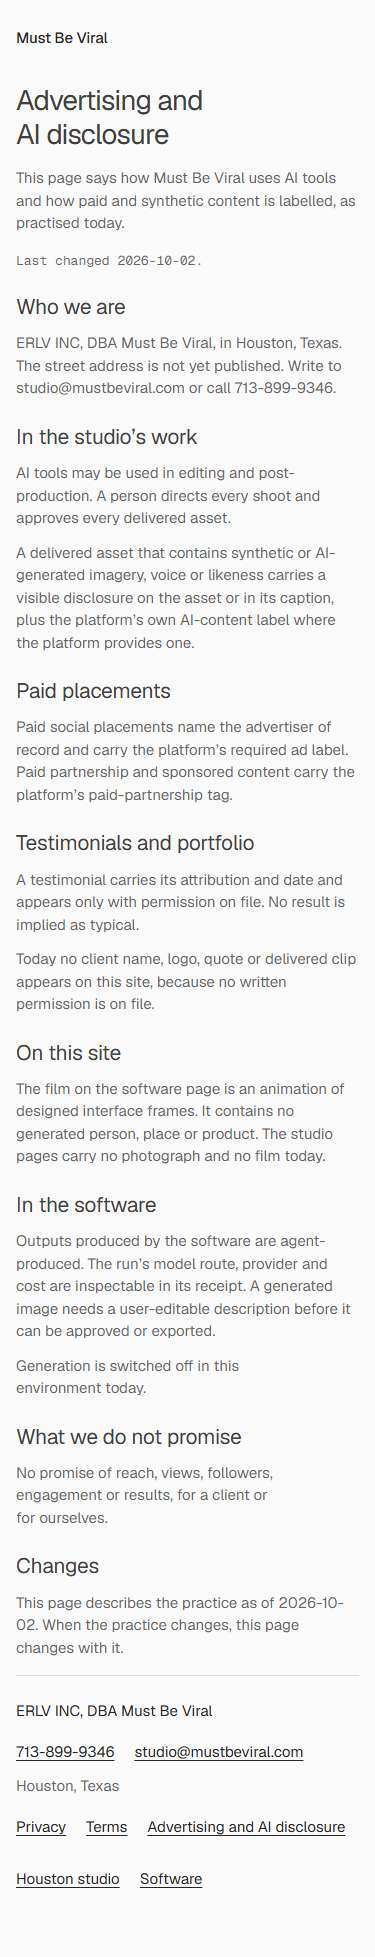
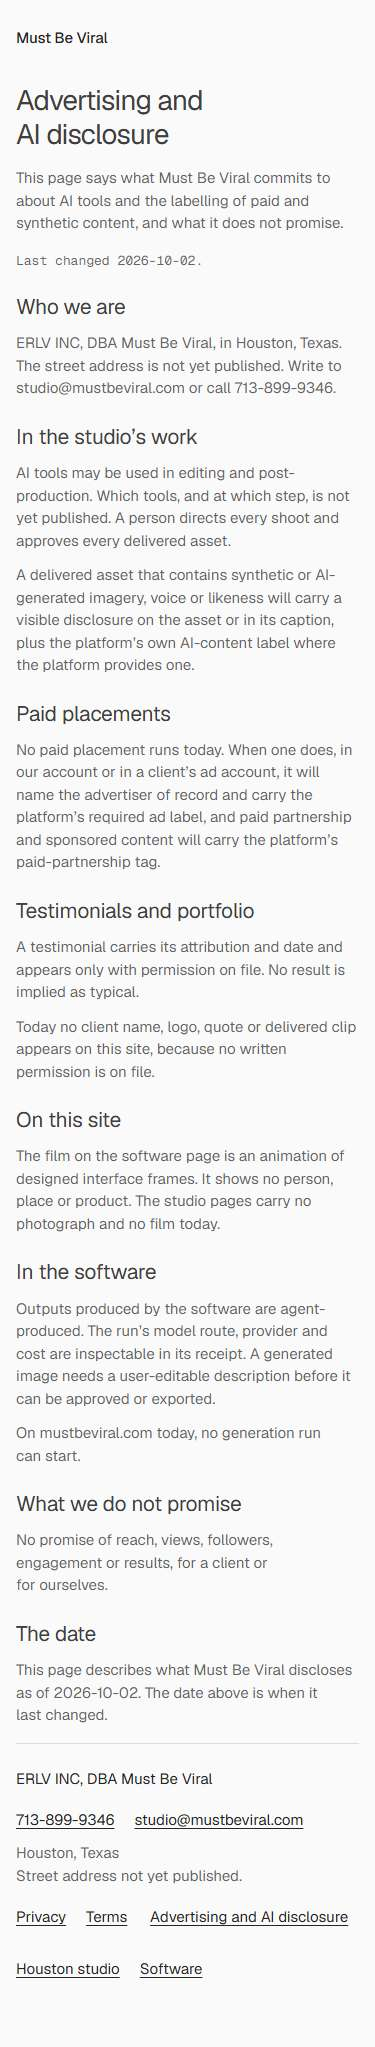
docs(evidence): refresh the browser proof against the final code head
The proof re-run on 043c133 with the footer's unpublished-street-address line
and the final legal copy: forty cells, no horizontal scroll, the footer on
every route, every stop ringed, no console error. The record names the code
head the captures come from and the regenerated root documents.

Changed region(s): [[0.0293, 0.0, 0.9387, 0.9663], [0.3227, 0.7481, 0.3813, 0.7793]]

diff --git a/governance/evidence/WP-PLATFORM-UI-001/browser-proof-2026-10-02d/README.md b/governance/evidence/WP-PLATFORM-UI-001/browser-proof-2026-10-02d/README.md
@@ -1,9 +1,11 @@
 # Browser proof, 2026-10-02, public site
 
-Local harness (`node packages/db/scripts/start-platform-knowledge-local.mjs`: web `127.0.0.1:3111`,
-Core `127.0.0.1:8789`), driven through the shared Playwright MCP server, Chromium, device pixel
-ratio 1, signed out. Captures are JPEG; the 375px and 1920px captures are full page, the 1280px
-captures the first viewport.
+Taken against code head `043c13338c6eba4ed0d9457662c1840240b4db15` (the last commit that changes
+source on branch `codex/public-site-finish`; the footer's unpublished-street-address line and the
+final legal copy are in it). Local harness (`node packages/db/scripts/start-platform-knowledge-local.mjs`:
+web `127.0.0.1:3111`, Core `127.0.0.1:8789`), driven through the shared Playwright MCP server,
+Chromium, device pixel ratio 1, signed out. Captures are JPEG; the 375px and 1920px captures are
+full page, the 1280px captures the first viewport. Measurements in `public-probes.json`.
 
 ## Ten routes, four widths
 
@@ -12,30 +14,31 @@ captures the first viewport.
 
 - No horizontal scroll in any cell. One `main` on every page. The h1 measures 28px everywhere.
   No console error and no page error across the run.
-- The one footer is on every one of the ten routes with the three legal links, the `tel:` and
-  `mailto:` links and Houston, Texas; the studio footer adds `/pricing` and names the software in
-  one line, the software footer names the studio in one line, the legal and signed-out screens link
-  both. Every footer link measures at least 44 by 44px.
-- The studio header carries Español alone (`/`, `/pricing`) and English alone (`/es`); the software
-  header carries Plans alone and the plans page Software alone; the legal pages carry the wordmark
-  alone.
+- The one footer is on every one of the forty cells with the entity, the `tel:` and `mailto:`
+  links, "Houston, Texas", "Street address not yet published." and the three legal links; the
+  studio footer adds `/pricing` and names the software in one line, the software footer names the
+  studio in one line, the legal and signed-out screens link both. Every footer link measures at
+  least 44 by 44px; the only controls under 44px anywhere are the skip links, off screen until
+  focused.
+- Headers: `/` and `/pricing` carry Español alone, `/es` English alone, `/software` Plans alone,
+  `/software/pricing` Software alone, the legal pages the wordmark alone, the signed-out screens
+  no header.
 - Home, 375px: the action at 227px and both prices in the frame at 398px and 473px of an 812px
-  viewport, before any included line. At 768, 1280 and 1920 both prices sit beside the lead in the
-  first viewport. Six composed rows on `/`, none on `/es`.
-- The two offers in full on `/`, `/es` and `/pricing`, packed to the top of their columns from
-  768px (offer at 408px, price at 459px, list at 500px on the wide home page).
-- `canonical` on every public page; one JSON-LD block on `/`, `/es`, `/pricing` (`LocalBusiness`)
-  and `/software` (`SoftwareApplication`); none on the legal pages. `sitemap.xml` lists the eight
-  public pages with the studio pair as `hreflang` peers; `llms.txt` carries the add-on ranges, the
-  pricing page, the entity, the unpublished street address and the three legal pages.
-- The only controls under 44px are the skip links, which are off screen until focused.
+  viewport, before any included line; the same on `/es`. Six composed rows on `/`, none on `/es`.
+  One JSON-LD block on `/`, `/es`, `/pricing` and `/software`, none on the other pages.
 
 ## Reduced motion, forced colours, keyboard
 
 Under `prefers-reduced-motion: reduce` the studio page runs no animation and its visible text is
-the same length as without the preference (2266 characters at 375px): every word stays. Under
+the same length as without the preference (2300 characters at 375px): every word stays. Under
 `forced-colors: active` the add-on rows and the footer borders resolve to the system text colour
-(`home-forced-colors.jpg`, `pricing-forced-colors.jpg`). Tabbing through `/` visits fifteen stops
-(skip link, wordmark, Español, the action and the phone twice, the pricing link, the footer's
-phone, mail, four pages and the software line), `/pricing` twelve and `/privacy` nine; every stop
-shows the 2px ring.
+(`home-forced-colors.jpg`, `pricing-forced-colors.jpg`). Tabbing through `/` visits fifteen stops,
+`/pricing` twelve and `/privacy` nine; every stop shows the 2px ring.
+
+## Earlier in the same run
+
+An earlier pass on the same routes, before the footer line and the final legal copy, measured the
+offers packed to the top of their columns from 768px (offer at 408px, price at 459px, list at
+500px on the wide home page) and `sitemap.xml` with the eight public pages; those parts of the page
+did not change afterwards. Preview journeys 112 passed and 40 skipped; connected journeys 17
+passed, both on the working tree that became `79134f9`.

diff --git a/governance/evidence/WP-PLATFORM-UI-001/public-site-2026-10-02.md b/governance/evidence/WP-PLATFORM-UI-001/public-site-2026-10-02.md
@@ -113,7 +113,11 @@ the composed frame. The one remaining sentence: save `HF_API_KEY_ID` and `HF_API
 ## Gates
 
 Code head `79134f9fd78510f0dcc6db71a9559592a4cb6c18` on branch `codex/public-site-finish` (pull request
-ashrunscode/MustBeViral#63, base `e058983`). Every commit after it changes only evidence.
+ashrunscode/MustBeViral#63, base `e058983`). The review repair `043c133` changes one privacy sentence after it; every other later commit
+changes only evidence. The root `llms.txt` and `docs/STATUS.md` in the first commit are the
+generator's output (`pnpm docs:generate`); `llms.txt` is listed in the packet's allowed paths, and
+`origin/main` at `e058983` failed `generated:check` on both files because the previous merge
+updated the next action without regenerating them.
 
 | Gate                                                                                                                                                 | Environment                                                                                        | Exit                                                                                                                                                                                                                                                 |
 | ---------------------------------------------------------------------------------------------------------------------------------------------------- | -------------------------------------------------------------------------------------------------- | ---------------------------------------------------------------------------------------------------------------------------------------------------------------------------------------------------------------------------------------------------- |
@@ -125,7 +129,9 @@ ashrunscode/MustBeViral#63, base `e058983`). Every commit after it changes only 
 
 ## Browser proof
 
-`browser-proof-2026-10-02d/README.md` and `public-probes.json`, on the local harness, signed out.
+`browser-proof-2026-10-02d/README.md` and `public-probes.json`, on the local harness, signed out,
+taken against code head `043c133` (the last source commit, with the footer line and the final
+legal copy).
 Ten routes (`/`, `/es`, `/pricing`, `/software`, `/software/pricing`, `/privacy`, `/terms`,
 `/advertising`, `/login`, `/signup`) at 375, 768, 1280 and 1920: no horizontal scroll in any of
 the forty cells, one `main`, h1 28px, the footer with the three legal links and the unpublished
